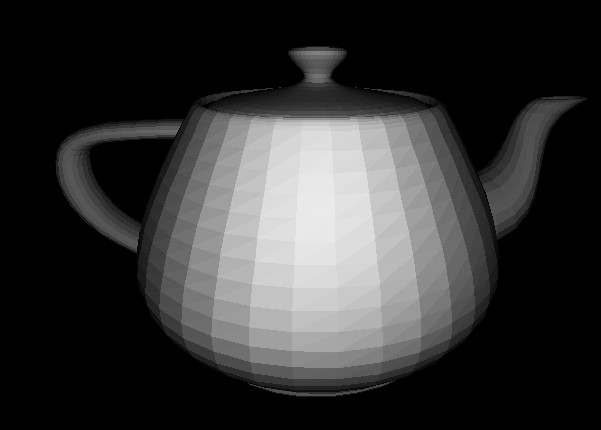
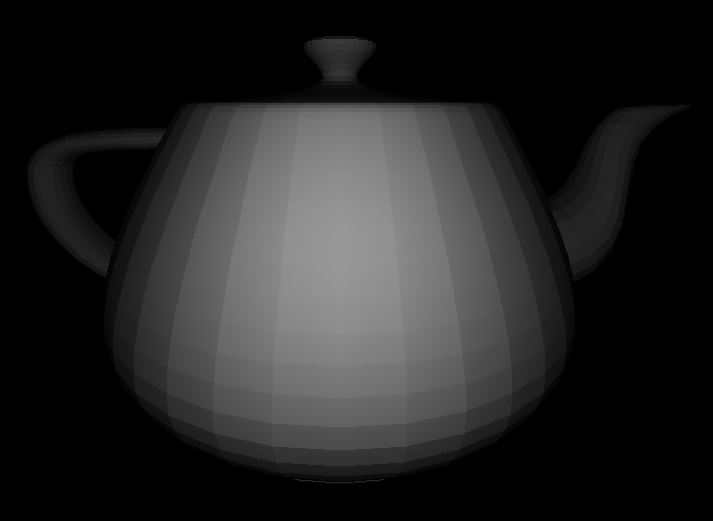
Read README.md

diff --git a/engine/Engine.java b/engine/Engine.java
@@ -12,6 +12,8 @@ import java.io.BufferedReader;
 import java.io.FileReader;
 
 import java.util.ArrayList;
+import java.util.Arrays;
+import java.util.Collections;
 import java.util.Comparator;
 import java.util.concurrent.ThreadLocalRandom;
 
@@ -309,23 +311,106 @@ public abstract class Engine {
 	}
 
 	private static class TriangleRender2D {
-		int[] xPoints;
-		int[] yPoints;
+		Vector[] vertices;
+		Vector[] colors = new Vector[3];
 		float z;
 
-		Color color;
-
-		TriangleRender2D(Vector[] _vertices, Color _color) {
-			this.xPoints = new int[] { (int) _vertices[0].x, (int) _vertices[1].x, (int) _vertices[2].x };
-			this.yPoints = new int[] { (int) _vertices[0].y, (int) _vertices[1].y, (int) _vertices[2].y };
-
+		TriangleRender2D(Vector[] _vertices, Color[] _colors) {
+			this.vertices = _vertices;
+			
+			for (int i = 0; i < 3; i++) { 
+				this.vertices[i].x = (int) this.vertices[i].x; 
+				this.vertices[i].y = (int) this.vertices[i].y; 
+				
+				this.colors[i] = new Vector( _colors[i].getRed(), _colors[i].getGreen(), _colors[i].getBlue() );
+			}
+						
 			this.z = _vertices[0].z + _vertices[1].z + _vertices[2].z; // No Need to Divide By Three
-			this.color = _color;
 		}
-
+		
+		private float constrain(float val, float _min, float _max) {
+			if (val > _max) val = _max;
+			if (val < _min) val = _min;
+			
+			return val;
+		}
+		
 		void render(Graphics g) {
-			g.setColor(color);
-			g.fillPolygon(xPoints, yPoints, 3);
+			// https://codeplea.com/triangular-interpolation
+			
+			// Step 1 : calculate weights
+			
+			float denominator = (this.vertices[1].y - this.vertices[2].y) * (this.vertices[0].x - this.vertices[2].x) + (this.vertices[2].x - this.vertices[1].x) * (this.vertices[0].y - this.vertices[2].y);
+			
+			// Step 1.5 : precalculate values
+			
+			float preCalc1 = (this.vertices[1].y - this.vertices[2].y);
+			float preCalc2 = (this.vertices[2].x - this.vertices[1].x);
+			float preCalc3 = (this.vertices[2].y - this.vertices[0].y);
+			float preCalc4 = (this.vertices[0].x - this.vertices[2].x);
+			
+			Vector t0 = vertices[0];
+			Vector t1 = vertices[1];
+			Vector t2 = vertices[2];
+
+			// https://github.com/ssloy/tinyrenderer/wiki/Lesson-2:-Triangle-rasterization-and-back-face-culling
+			
+			if (t0.y == t1.y && t0.y == t2.y) return;
+
+			if (t0.y > t1.y) { Vector temp = t0.copy(); t0 = t1.copy(); t1 = temp.copy(); }
+			if (t0.y > t2.y) { Vector temp = t0.copy(); t0 = t2.copy(); t2 = temp.copy(); }
+			if (t1.y > t2.y) { Vector temp = t2.copy(); t2 = t1.copy(); t1 = temp.copy(); }
+
+			int total_height = (int) (t2.y - t0.y);
+
+			for (int i = 0; i<total_height; i++) {
+				boolean second_half = i > t1.y - t0.y || t1.y == t0.y;
+
+				int segment_height = (int) (second_half ? t2.y - t1.y : t1.y - t0.y);
+
+				float alpha = i / (float) total_height;
+				float beta  = (i - (second_half ? t1.y - t0.y : 0)) / segment_height;
+
+				Vector A = Vector.add( t0, Vector.mul( Vector.sub(t2, t0) , alpha ) );
+				Vector B = second_half ?  Vector.add( t1, Vector.mul( Vector.sub(t2, t1) , beta ) ) : Vector.add( t0, Vector.mul( Vector.sub(t1, t0), beta ));
+
+				if (A.x > B.x) { Vector temp = A.copy(); A = B.copy(); B = temp.copy(); }
+
+				for (int x = (int) A.x; x <= B.x; x++) {
+					int y = (int) (t0.y + i);
+
+					if (x >= 0 && y >= 0) {
+						// https://codeplea.com/triangular-interpolation
+						
+						float preCalc5 = (x - this.vertices[2].x);
+						float preCalc6 = (y - this.vertices[2].y);
+						
+						float[] weights = new float[] {
+							(preCalc1 * preCalc5 + preCalc2 * preCalc6) / denominator, 
+							(preCalc3 * preCalc5 + preCalc4 * preCalc6) / denominator, 
+							0, 
+						};
+						
+						weights[2] = 1 - weights[0] - weights[1];
+									
+						// Step 2 : Calculate brightness
+						Vector color = new Vector(0, 0, 0);
+						
+						for (int c = 0; c < 3; c++) {
+							color.add(Vector.mul(this.colors[c], weights[c]));
+						}
+						
+						color.div(weights[0] + weights[1] + weights[2]);
+						
+						color.x = constrain(color.x, 0, 255);
+						color.y = constrain(color.y, 0, 255);
+						color.z = constrain(color.z, 0, 255);
+						
+						g.setColor(new Color((int) color.x, (int) color.y, (int) color.z));
+						g.fillRect(x, y, 1, 1);
+					}
+				}
+			}
 		}
 	}
 
@@ -407,7 +492,7 @@ public abstract class Engine {
 		public void mouseExited(MouseEvent e)   {}
 		public void mouseReleased(MouseEvent e) { onMouseRelease(); mousePressed = false; }
 	}
-
+	
 	private static class SortByDistance implements Comparator<TriangleRender2D> {
 		@Override
 		public int compare(TriangleRender2D a, TriangleRender2D b) {
@@ -428,34 +513,48 @@ public abstract class Engine {
 			return (Vector.dotProduct(_surfaceNormal, triangleToCamera) > 0.f);
 		}
 
-		private float getIllumination(Vector[] _rotatedVertices, Vector _surfaceNormal) {
+		private Color[] getColorsWIllumination(Vector[] _rotatedVertices, Vector _surfaceNormal, Color _color) {
 			// Total Brightness
-			float summedBrightness = 0;
-
-			Vector triangleRotatedCenter = Vector.div(Vector.add(Vector.add(_rotatedVertices[0], _rotatedVertices[1]), _rotatedVertices[2]), 3);
+			float[] summedBrightness = new float[3];
+			
+			Color[] colorsWlighting = new Color[3];
 
 			// For Every Light
 			for (Light light : lights) {
-				// No Need To Translate The Light's position and the triangle's position because it would cancel out
-				Vector triangleToLight = Vector.sub(light.position, triangleRotatedCenter);
+				// For Each Vertex
+				for (int i = 0; i < 3; i++) {
+					// No Need To Translate The Light's position and the triangle's position because it would cancel out
+					Vector vertexToLight = Vector.sub(light.position, _rotatedVertices[i]);
 
-				float distanceSquared = (float) Math.pow(triangleToLight.getLength(), 2);
+					float distance = (float) vertexToLight.getLength();
 
-				triangleToLight.normalize();
+					vertexToLight.normalize();
 
-				float dotProductTriangleAndLight = Vector.dotProduct(triangleToLight, _surfaceNormal);
+					float dotProductTriangleAndLight = Vector.dotProduct(vertexToLight, _surfaceNormal);
+					
+					if (dotProductTriangleAndLight > 0f) {
+						dotProductTriangleAndLight = Math.abs(dotProductTriangleAndLight);
+					} else {
+						dotProductTriangleAndLight = 0f;
+					}
 
-				if (dotProductTriangleAndLight > 0f) {
-					dotProductTriangleAndLight = Math.abs(dotProductTriangleAndLight);
-				} else {
-					dotProductTriangleAndLight = 0f;
+					summedBrightness[i] += (dotProductTriangleAndLight * light.intensity) / (distance * distance); // Inverse Square Law
 				}
-
-				summedBrightness += (dotProductTriangleAndLight * light.intensity) / distanceSquared; // Inverse Square Law
 			}
 
-			// Limit the brightness to 1
-			return (summedBrightness <= 1f) ? summedBrightness : 1f;
+			for (int i = 0; i < 3; i++) {
+				// Limit the brightness to 1
+				summedBrightness[i] = (summedBrightness[i] <= 1f) ? summedBrightness[i] : 1f;
+			
+				// calculate the new color
+				int newR = (int) (_color.getRed()   * summedBrightness[i]);
+				int newG = (int) (_color.getGreen() * summedBrightness[i]);
+				int newB = (int) (_color.getBlue()  * summedBrightness[i]);
+				
+				colorsWlighting[i] = new Color(newR, newG, newB);
+			}
+			
+			return colorsWlighting;
 		}
 
 		public void paintComponent(Graphics g) {
@@ -528,20 +627,11 @@ public abstract class Engine {
 
 						// If The Triangle Is In Front Of The Camera
 						if (!triangleBehindCamera) {
-							// Calculate Triangle Color with respect to lighting
-							float illumination = getIllumination(rotatedVertices, surfaceNormal);
-
-							// Don't render the triangle if the illumination is 0
-							if (illumination > 0) {
-								int newRed   = (int) (triangle.color.getRed()   * illumination);
-								int newGreen = (int) (triangle.color.getGreen() * illumination);
-								int newBlue  = (int) (triangle.color.getBlue()  * illumination);
-
-								Color triangleColorWithLighting = new Color(newRed, newGreen, newBlue);
-
-								// Add Triangle to the render queue
-								trianglesToRender.add(new TriangleRender2D(manipulatedVertices, triangleColorWithLighting));
-							}
+							// Calculate Triangle's Color with respect to lighting
+							Color[] colors = getColorsWIllumination(rotatedVertices, surfaceNormal, triangle.color);
+							
+							// Add Triangle to the render queue
+							trianglesToRender.add(new TriangleRender2D(manipulatedVertices, colors));
 						}
 					}
 				}

diff --git a/main/Main.java b/main/Main.java
@@ -9,7 +9,8 @@ public class Main extends Engine {
 	public Main() {
 		super(1920, 1080, "Engine Test App", 90, 30);
 		loadModel("res/bunny.obj", false);
-		lights.add(new Light(Camera.position, Color.RED, 0.05f));
+		
+		lights.add(new Light(Camera.position, Color.RED, 0.02f));
 		run();
 	}
 

diff --git a/README.md b/README.md
@@ -16,12 +16,17 @@ This project's goal is to build a simple 3D java rendering engine from stratch.
 + **Simple Lighting**
   + *Multiple Point Lights*
   + *Considers Distance (with the inverse square law)*
+  + *Pixel Per Pixel Lighting*
 
 ## Todo List
 
 + **Lighting**
   + *Light Color*
-  + *Pixel Per Pixel Lighting*
++ **Performance**
+  + *Triangle Cliping*
++ **Other**
+  + *Use a better perspective matrix*
+  + *Depth Buffer*
   
 **And More To Come !**
 
